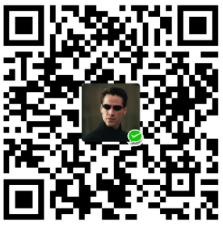
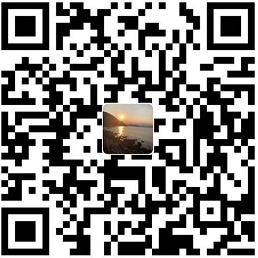
关于

diff --git a/_includes/about.html b/_includes/about.html
@@ -83,7 +83,7 @@
 
        <p align="center">
 
-       <img src="http://www.ityouknow.com/assets/images/tip.jpg" />
+       <img src="../assets/images/6.66.png" />
        <br/>微信扫一扫
             
          <!-- <img src="http://www.ityouknow.com/assets/images/weixin.png"  style="width: 413px;height: 545px;">

diff --git a/pages/about.md b/pages/about.md
@@ -2,6 +2,7 @@
 layout: page
 title: About Me
 titlebar: About
+comments: false
 menu: about
 subtitle:  <span class="mega-octicon octicon-person"></span>&nbsp;&nbsp; I am a programmer         
 css: ['about.css', 'sidebar-popular-repo.css', '../../bower_components/flag-icon-css/css/flag-icon.min.css']
